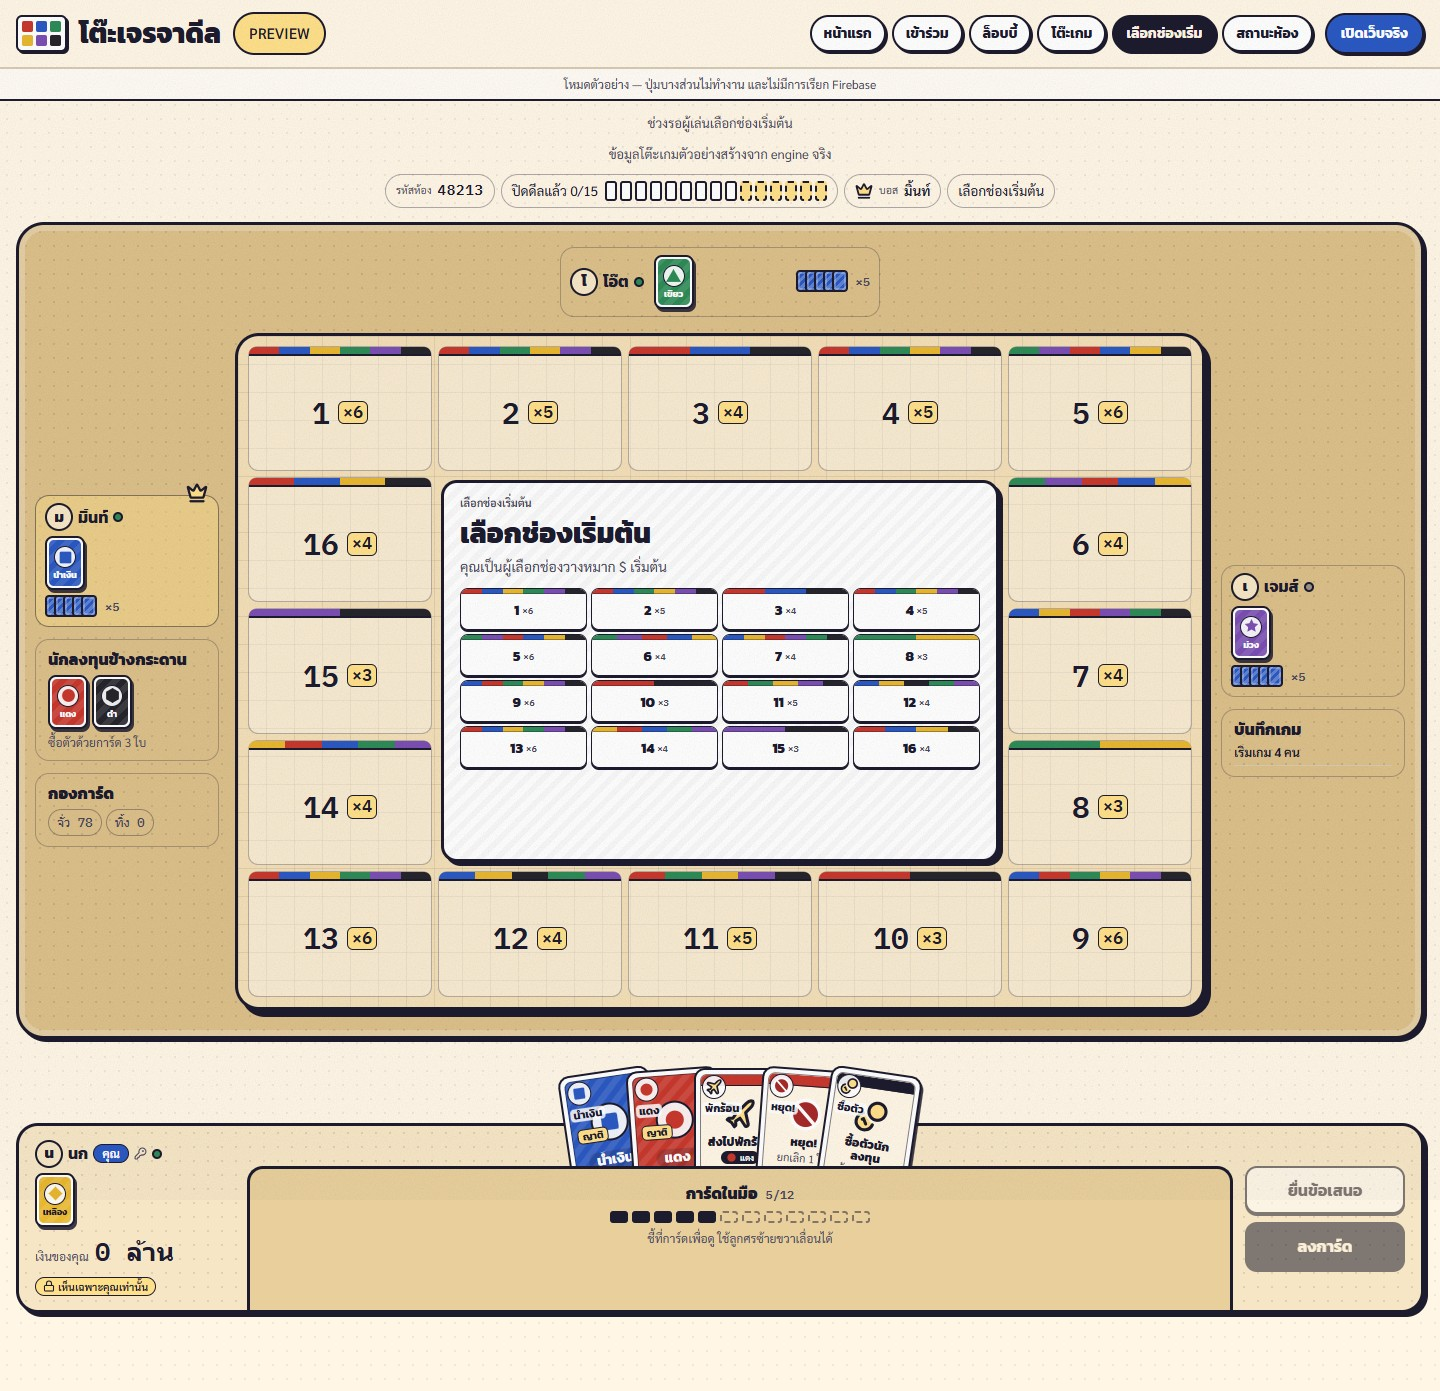
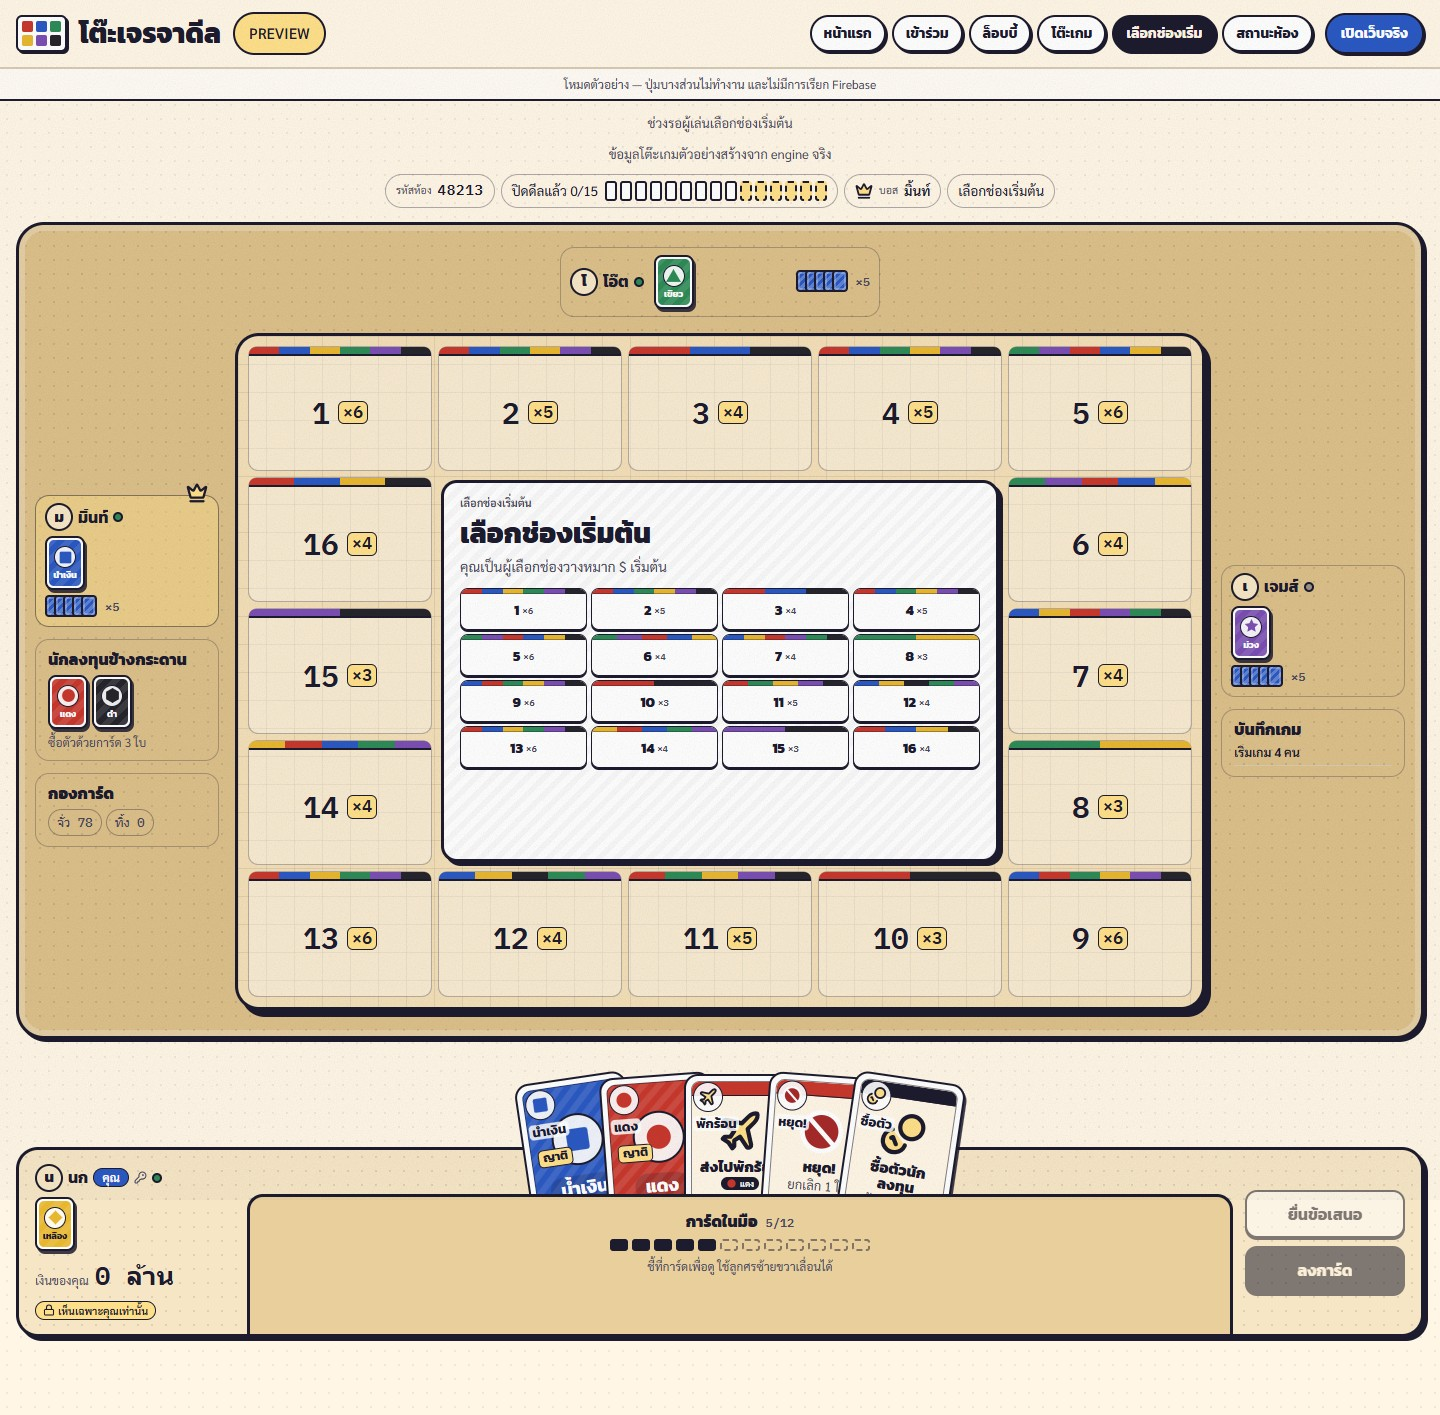
fix(M4): enlarge hand cards per table v6

diff --git a/src/styles/global.css b/src/styles/global.css
@@ -1924,7 +1924,7 @@ button.table-family-chip:hover:not(:disabled) {
   align-items: center;
   gap: 12px;
   min-height: 190px;
-  margin: 84px 0 14px;
+  margin: 108px 0 14px;
   padding: 14px 16px;
   border: 3px solid var(--ink);
   border-radius: 22px;
@@ -1977,14 +1977,14 @@ button.table-family-chip:hover:not(:disabled) {
 
 .table-hand {
   position: absolute;
-  top: -58px;
+  top: -76px;
   right: 188px;
   left: 228px;
   z-index: 3;
   display: flex;
   align-items: flex-start;
   justify-content: center;
-  height: 200px;
+  height: 240px;
   pointer-events: none;
 }
 
@@ -1998,14 +1998,14 @@ button.table-family-chip:hover:not(:disabled) {
 .table-hand-card {
   position: relative;
   flex: 0 0 auto;
-  width: 92px;
-  height: 130px;
-  margin-left: var(--hand-overlap, -44px);
-  padding: 4px;
+  width: 112px;
+  height: 160px;
+  margin-left: var(--hand-overlap, -52px);
+  padding: 5px;
   transform: translateY(var(--lift, 0px)) rotate(var(--r, 0deg));
   transform-origin: 50% 220%;
   border: 2px solid var(--ink);
-  border-radius: 11px;
+  border-radius: 14px;
   background: var(--white);
   box-shadow: 2px 3px 0 rgba(29, 27, 46, 0.85);
   cursor: pointer;
@@ -2024,13 +2024,13 @@ button.table-family-chip:hover:not(:disabled) {
 
 .table-hand-cn {
   position: absolute;
-  top: 5px;
-  left: 6px;
+  top: 6px;
+  left: 7px;
   z-index: 4;
   display: grid;
   place-items: center;
-  width: 24px;
-  height: 24px;
+  width: 30px;
+  height: 30px;
   border: 1.5px solid var(--ink);
   border-radius: 50%;
   background: rgba(255, 255, 255, 0.92);
@@ -2040,17 +2040,17 @@ button.table-family-chip:hover:not(:disabled) {
 
 .table-hand-cl {
   position: absolute;
-  top: 32px;
-  left: 6px;
+  top: 40px;
+  left: 7px;
   z-index: 4;
   overflow: hidden;
-  max-width: 54px;
+  max-width: 66px;
   padding: 1px 3px;
   border-radius: 4px;
   background: rgba(255, 255, 255, 0.85);
   color: var(--ink);
   font-family: 'Kanit', system-ui, sans-serif;
-  font-size: 11px;
+  font-size: 13px;
   font-weight: 700;
   line-height: 1;
   text-overflow: ellipsis;
@@ -2112,7 +2112,7 @@ button.table-family-chip:hover:not(:disabled) {
   height: 100%;
   overflow: hidden;
   border: 1.5px solid rgba(29, 27, 46, 0.55);
-  border-radius: 7px;
+  border-radius: 9px;
 }
 
 .table-card-face.is-clan {
@@ -2123,14 +2123,14 @@ button.table-family-chip:hover:not(:disabled) {
 
 .table-card-face.is-action {
   justify-content: flex-start;
-  padding: 20px 5px 16px;
+  padding: 24px 5px 16px;
   background: var(--paper);
 }
 
 .table-card-clan-tag {
   position: absolute;
-  top: 48px;
-  left: 5px;
+  top: 60px;
+  left: 6px;
   z-index: 2;
   padding: 0 4px;
   border: 1.5px solid var(--ink);
@@ -2138,7 +2138,7 @@ button.table-family-chip:hover:not(:disabled) {
   background: var(--gold);
   color: var(--ink);
   font-family: 'Kanit', system-ui, sans-serif;
-  font-size: 10px;
+  font-size: 12px;
   font-weight: 700;
   line-height: 1.3;
 }
@@ -2146,8 +2146,8 @@ button.table-family-chip:hover:not(:disabled) {
 .table-card-clan-emblem {
   display: grid;
   place-items: center;
-  width: 38px;
-  height: 38px;
+  width: 52px;
+  height: 52px;
   border: 2px solid var(--ink);
   border-radius: 50%;
   background: rgba(255, 255, 255, 0.92);
@@ -2155,14 +2155,14 @@ button.table-family-chip:hover:not(:disabled) {
 
 .table-card-clan-name {
   overflow: hidden;
-  max-width: 76px;
+  max-width: 96px;
   margin-top: 6px;
-  padding: 0 8px;
+  padding: 1px 10px;
   border-radius: 999px;
   background: rgba(29, 27, 46, 0.2);
   color: var(--white);
   font-family: 'Kanit', system-ui, sans-serif;
-  font-size: 14px;
+  font-size: 18px;
   font-weight: 700;
   line-height: 1.3;
   text-overflow: ellipsis;
@@ -2176,15 +2176,15 @@ button.table-family-chip:hover:not(:disabled) {
 .table-card-strip {
   position: absolute;
   inset: 0 0 auto;
-  height: 11px;
+  height: 14px;
   border-bottom: 1.5px solid var(--ink);
 }
 
 .table-card-icon {
   display: grid;
   place-items: center;
-  width: 34px;
-  height: 34px;
+  width: 46px;
+  height: 46px;
   margin-top: 2px;
   color: var(--ink);
 }
@@ -2209,7 +2209,7 @@ button.table-family-chip:hover:not(:disabled) {
   margin-top: 5px;
   color: var(--ink);
   font-family: 'Kanit', system-ui, sans-serif;
-  font-size: 12px;
+  font-size: 15px;
   font-weight: 800;
   line-height: 1.05;
   text-align: center;
@@ -2238,7 +2238,7 @@ button.table-family-chip:hover:not(:disabled) {
 .table-card-sub {
   margin-top: 2px;
   color: var(--ink-soft);
-  font-size: 11px;
+  font-size: 13px;
   line-height: 1.2;
   text-align: center;
 }
@@ -2252,7 +2252,7 @@ button.table-family-chip:hover:not(:disabled) {
 
 .table-lip {
   position: absolute;
-  top: 40px;
+  top: 44px;
   right: 188px;
   bottom: 0;
   left: 228px;

diff --git a/src/ui/table/HandFan.tsx b/src/ui/table/HandFan.tsx
@@ -42,7 +42,7 @@ function cardAriaLabel(card: InfluenceCard): string {
   }
 }
 
-function ActionIcon({ kind, size = 34 }: { kind: InfluenceCard['kind']; size?: number }) {
+function ActionIcon({ kind, size = 46 }: { kind: InfluenceCard['kind']; size?: number }) {
   switch (kind) {
     case 'travel':
       return <Plane size={size} strokeWidth={2.2} />;
@@ -141,11 +141,11 @@ function HandCard({
         {isClan ? (
           <FamilySymbol
             shape={meta!.symbol}
-            size={16}
+            size={20}
             style={{ color: `var(${meta!.cssVar})` }}
           />
         ) : (
-          <ActionIcon kind={card.kind} size={18} />
+          <ActionIcon kind={card.kind} size={20} />
         )}
       </span>
       <span className="table-hand-cl" aria-hidden="true">
@@ -161,7 +161,7 @@ function HandCard({
             <span className="table-card-clan-emblem">
               <FamilySymbol
                 shape={meta!.symbol}
-                size={24}
+                size={32}
                 style={{ color: `var(${meta!.cssVar})` }}
               />
             </span>
@@ -229,7 +229,7 @@ const HAND_KIND_ORDER: Record<InfluenceCard['kind'], number> = {
 
 export function HandFan({ cards, phase, windowOpen, neededColors }: HandFanProps) {
   const refs = useRef<Array<HTMLDivElement | null>>([]);
-  const overlap = 44;
+  const overlap = 52;
   const orderedCards = [...cards].sort(
     (left, right) => HAND_KIND_ORDER[left.kind] - HAND_KIND_ORDER[right.kind],
   );

diff --git a/progess.md b/progess.md
@@ -318,7 +318,8 @@ Milestone ถัดไปคือ M4 (Tabletop UI — Desktop) — รอคำ
   - ช่องปกติโปร่งแสงพร้อมเลข mono ขนาดใหญ่และ dividend chip; เฉพาะช่องปัจจุบันจึงแสดงกลุ่มเงื่อนไขแบบ inline, ช่องปิดใช้พื้น ink + เลขช่อง/เลขแผ่น/✓ ซ้อนกลาง, หมากและวงแหวนน้ำเงินอยู่บนช่องปัจจุบัน, tooltip เงื่อนไขทำงานด้วย hover/focus
   - แผงดีลจัดหัวเรื่องกับ badge inline, ส่วนแบ่ง 30px (บอสสีทอง/เจ้าของสีตระกูล), แถวเงื่อนไข 13px, label “เลือก N”, แถวข้อเสนอรอแบบ dashed พร้อม chip “รอข้อเสนอ”, ปุ่มขนาดใหญ่ และ reserve ที่ว่างสำหรับ stamp
   - ที่นั่ง/แผงข้างโปร่งแสงขอบ ink, crown ไม่มี badge วงกลม, investor เป็น mini card, มีป้ายการ์ดคว่ำ/พักร้อน และ chip เงินส่วนตัวแบบล็อก
-  - มือการ์ดใช้ overlap 44px, การ์ด 92×130, compact label ฝั่งซ้าย, ไอคอน action สีตามต้นฉบับ, tag ญาติ, ตราตระกูล 24px และเรียงชนิดการ์ด (ญาติ → พักร้อน → หยุด → ซื้อตัว → แย่งบอส) เพื่อให้การ์ดบอสใบขวาสุดเห็นเต็มใบ; hover ดันการ์ดข้างเคียง 26px
+  - มือการ์ดขยายเป็น **112×160** ตาม `table (1).html` v6 (overlap 52px), padding 5/radius 14, face radius 9, action icon 46px, ตราตระกูล 52px/ไอคอน 32px, compact circle 30px/ไอคอน 20px, compact label 13px, tag ญาติ 12px, ชื่อการ์ด 18px (ญาติ)/15px (action), sub 13px และ strip 14px; ปรับเฉพาะระยะ hand/mine/lip ให้การ์ดใหญ่พอดีโดยไม่แตะองค์ประกอบอื่น
+  - คง compact label ฝั่งซ้าย, ไอคอน action สีตามต้นฉบับ, tag ญาติ และการเรียงชนิดการ์ด (ญาติ → พักร้อน → หยุด → ซื้อตัว → แย่งบอส) เพื่อให้การ์ดบอสใบขวาสุดเห็นเต็มใบ; hover ดันการ์ดข้างเคียง 26px
   - top bar แสดงรหัสห้อง/เฟส/ดีลที่ปิด/บอส/เทิร์น และ pip ของผู้เล่นตามภาษาภาพต้นฉบับ
   - ตรวจ deal panel ไม่มี internal scroll ที่ 1440/1280/1024px (376/376, 310/310, 324/324)
 
@@ -333,13 +334,13 @@ Milestone ถัดไปคือ M4 (Tabletop UI — Desktop) — รอคำ
 
 ### ผลการรันคำสั่ง
 
-- `npm run typecheck`: ผ่าน (หลัง visual parity pass)
-- `npm run lint`: ผ่าน (หลัง visual parity pass)
+- `npm run typecheck`: ผ่าน (หลัง hand-card enlargement)
+- `npm run lint`: ผ่าน (หลัง hand-card enlargement)
 - `npm run test`: ผ่าน 126/126 tests (12 files)
 - `npm run test:rules`: ผ่าน 12/12 tests
 - `npm run build`: ผ่าน; มี warning เดิมเรื่อง bundle ใหญ่กว่า 500 kB
-- e2e ผ่าน `firebase emulators:exec --config firebase.emulator.json --only database,auth "npm.cmd run test:e2e"`: **6/6 tests** ครอบคลุม lobby/start game, preview ทุกหน้าจอ, เทิร์นว่าง (เปิดดีล → ล้มดีล) และเทิร์นทอยเต๋า → จั่ว 3 ใบ (รันหลัง visual parity pass)
-- ตรวจภาพที่ 1440px, deal panel ไม่มี internal scroll ที่ 1440/1280/1024px และ refresh screenshot หลักทั้ง 5 รูปเมื่อ 21/10/2026
+- e2e ผ่าน `firebase emulators:exec --config firebase.emulator.json --only database,auth "npm.cmd run test:e2e"`: **6/6 tests** ครอบคลุม lobby/start game, preview ทุกหน้าจอ, เทิร์นว่าง (เปิดดีล → ล้มดีล) และเทิร์นทอยเต๋า → จั่ว 3 ใบ (รันหลัง hand-card enlargement)
+- ตรวจภาพที่ 1440px, deal panel ไม่มี internal scroll ที่ 1440/1280/1024px, การ์ดชุดใหญ่ไม่ทับกระดาน และ refresh screenshot หลักทั้ง 5 รูปเมื่อ 21/10/2026
 
 ### Definition of Done (M4)
 
@@ -360,6 +361,7 @@ Milestone ถัดไปคือ M4 (Tabletop UI — Desktop) — รอคำ
 - ปุ่ม **ยื่นข้อเสนอ**, **ลงการ์ด** และ **ล็อกดีล** ยัง disabled โดยตั้งใจ; งานจริงอยู่ใน M5/M6 (มี tooltip บอก)
 - แผงดีลเป็นพื้นที่ scroll ได้เมื่อมีข้อเสนอ/เงินปันผลจำนวนมาก; การจัดวางแบบละเอียดจะปรับอีกครั้งเมื่อ flow ข้อเสนอครบ
 - จอ ≤1023px ใช้ single-column fallback เพื่อไม่ให้แตก; mobile responsive เต็มรูปแบบอยู่ใน M8
+- การ์ดมือ 112×160 ใช้ overlap 52px คงที่; มือ 12 ใบที่ความกว้าง ≤1180px อาจแน่นหรือล้นกรอบ จะทำ overlap responsive ใน M8
 - Preview ใช้ผู้เล่น 4 คนและ seed 66 เพื่อให้เห็นการ์ดครบทุกชนิด; overfill picker ถูกทดสอบด้วย unit tests และ e2e เมื่อ engine สร้างสถานะนั้นจริง
 - ช่องปิดจะแสดงหลัง engine ส่ง event `dealResolved`; preview ทั้ง 3 state ยังอยู่ก่อนปิดดีล จึงไม่เห็นช่องปิดใน screenshot ชุดนี้ (สไตล์ช่องปิดพร้อมแล้ว)
 
